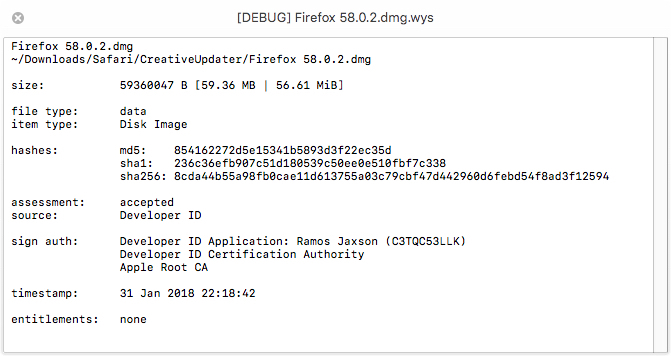
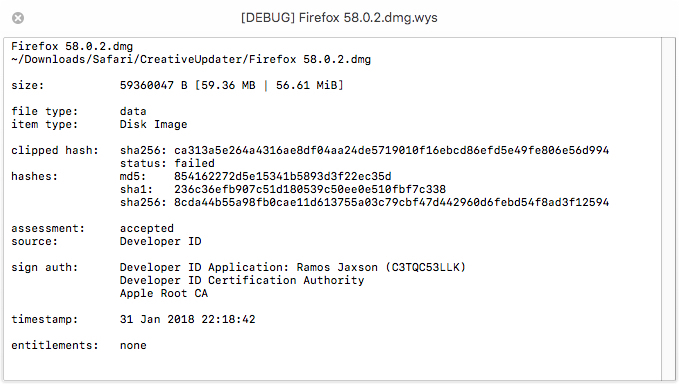
update screengrabs + corr

diff --git a/README.md b/README.md
@@ -82,7 +82,7 @@ In addition to the default WhatsYourSign functionality, **wys** also:
 
 ![grab4](https://github.com/JayBrown/wys-WhatsYourSign-shell-script-version/blob/master/img/grab_wys-dmg.jpg)
 
-#### Disk image (DMG) signed with a fake code signature for malware distribution
+#### Malware disk image (DMG) with hash mismatch and signed with a fake code signature
 
 ![grab12](https://github.com/JayBrown/wys-WhatsYourSign-shell-script-version/blob/master/img/grab_wys-dmgfake.jpg)
 
@@ -90,7 +90,7 @@ In addition to the default WhatsYourSign functionality, **wys** also:
 
 ![grab5](https://github.com/JayBrown/wys-WhatsYourSign-shell-script-version/blob/master/img/grab_wys-pkg.jpg)
 
-#### xip archive signed with Developer ID
+#### xip archive with verified hash and signed with Developer ID
 
 ![grab11](https://github.com/JayBrown/wys-WhatsYourSign-shell-script-version/blob/master/img/grab_wys-xip.jpg)
 
